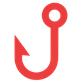
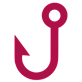
style: Escudo — "Exibir imagem" em verde e "Possível golpe" em carmim (v1.0.316)

Changed region(s): [[0.1707, 0.0244, 0.8293, 0.9756]]

diff --git a/src/renderer/index.css b/src/renderer/index.css
@@ -1672,12 +1672,12 @@ html[data-theme="anectta-glass"] .assistant-card {
    Escudo Anectta — ícones no cartão do Astro (uma cor por situação).
    --sc: cor base (preenchimento) · --sd: desenho/nome em tema escuro · --sl: em tema claro
    ========================================================================== */
-.shield-tone-golpe { --sc: #E83838; --sd: #F87171; --sl: #B91C1C; }
+.shield-tone-golpe { --sc: #9F1D4A; --sd: #E8508A; --sl: #9F1D4A; }
 .shield-tone-suspeito { --sc: #F8A818; --sd: #FBBF24; --sl: #B45309; }
 .shield-tone-desvio { --sc: #08B8C8; --sd: #22D3EE; --sl: #0E7490; }
 .shield-tone-bloqueio { --sc: #F83838; --sd: #F87171; --sl: #B91C1C; }
 .shield-tone-protecao { --sc: #0EA5E9; --sd: #38BDF8; --sl: #0369A1; }
-.shield-tone-imagem { --sc: #48B8F8; --sd: #7DD3FC; --sl: #0369A1; }
+.shield-tone-imagem { --sc: #16A34A; --sd: #4ADE80; --sl: #15803D; }
 .shield-tone-inscricao { --sc: #F8B818; --sd: #FACC15; --sl: #A16207; }
 [class*="shield-tone-"] { --c: var(--sd); }
 .clean-white [class*="shield-tone-"] { --c: var(--sl); }
